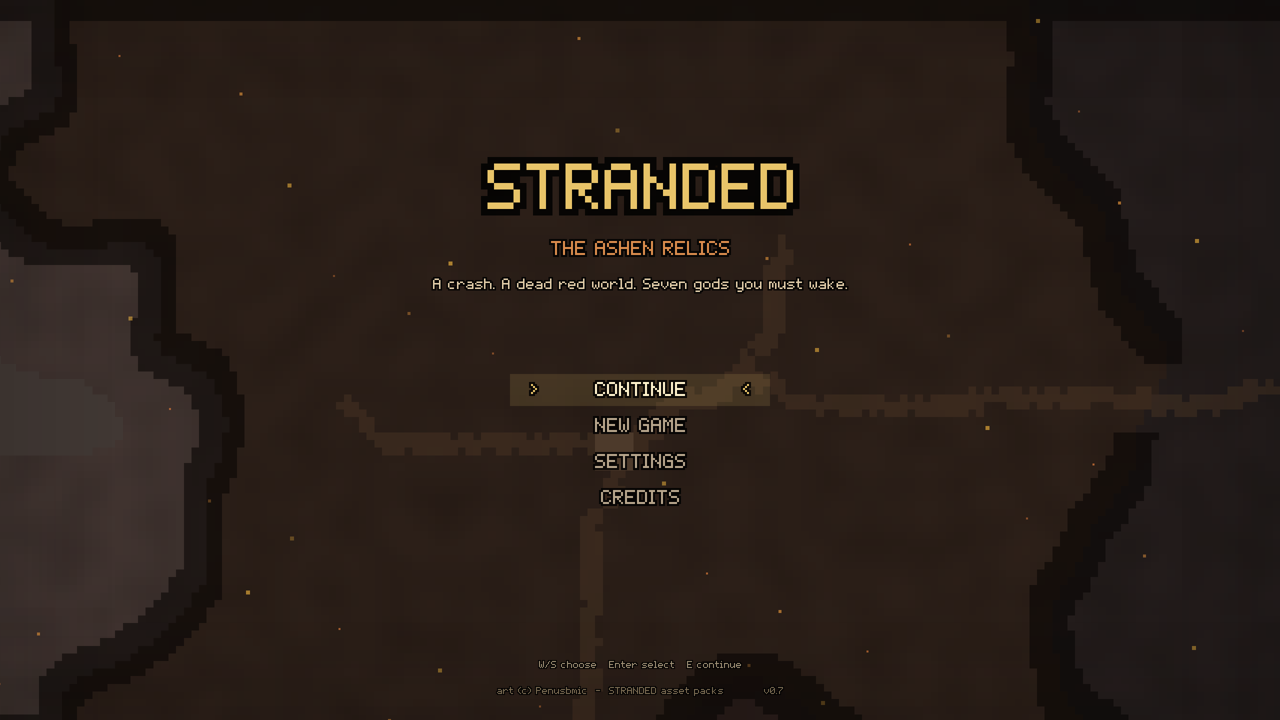
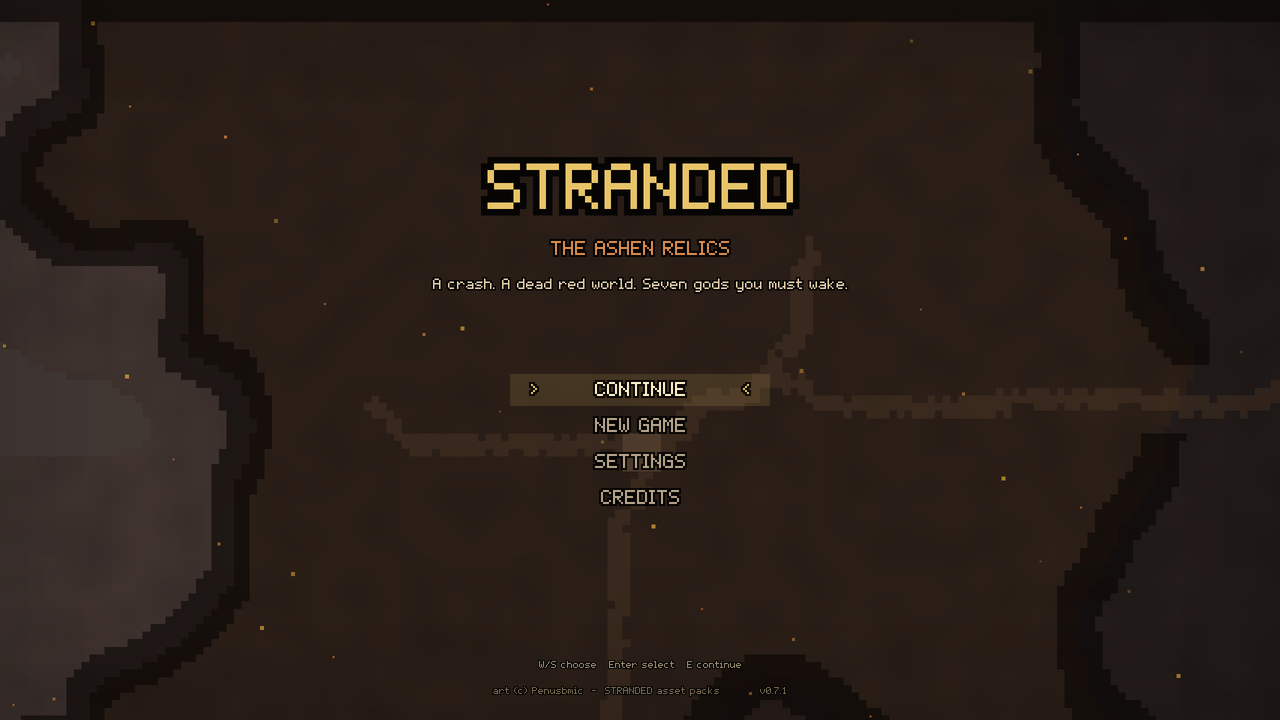
v0.7.1: new screenshots

diff --git a/README.md b/README.md
@@ -8,7 +8,7 @@ A top-down action-adventure in the spirit of Zelda. The colony-ship *Perdita* ha
 
 **[Download the latest version for macOS](https://github.com/detroit0s/stranded-ashen-relics/releases/latest)**: one app for both Apple Silicon and Intel Macs.
 
-1. Download `STRANDED-v0.7-macOS.zip` and double-click it to unzip `STRANDED.app`.
+1. Download `STRANDED-v0.7.1-macOS.zip` and double-click it to unzip `STRANDED.app`.
 2. The first time, **right-click the app ▸ Open**, then click **Open** again. The game isn't notarized by Apple, so macOS asks once.
    If it still refuses, go to **System Settings ▸ Privacy & Security** and click **Open Anyway**.
 
